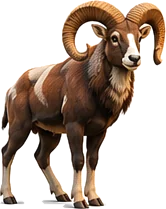
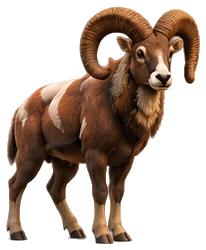
Nouvelles images des animaux (fond transparent, chevreuils détourés) ; croix rouge pour fermer un document – version 2026-10-13a
Claude-Session: https://claude.ai/code/session_0186hciEuPyU4mgRMjZZiZQe

diff --git a/index.html b/index.html
@@ -243,14 +243,14 @@ html.in-on,html.in-on body{overflow:hidden}
 .su-tip{display:flex;gap:10px;text-align:left;font:.9rem/1.4 system-ui;color:#dfe6d2;width:100%}
 .su-lt{border:0;background:none;color:#b9c3aa;text-decoration:underline;font:.85rem system-ui;padding:10px;margin-top:4px}
 .dth{width:64px;height:64px;border-radius:10px;object-fit:cover;flex:0 0 64px;background:var(--bg);border:1px solid var(--line)}.dth.em{display:flex;align-items:center;justify-content:center;font-size:1.8rem}.dth.pdf{display:flex;align-items:center;justify-content:center;font:800 .9rem system-ui;color:#fff;background:#b3261e;border:0}
-#dview{position:fixed;inset:0;z-index:1200;background:#000e;display:flex;align-items:center;justify-content:center;overflow:auto;touch-action:pinch-zoom}#dview img{max-width:100%;max-height:100%;object-fit:contain}#dview button{position:fixed;top:calc(12px + env(safe-area-inset-top));right:12px;width:44px;height:44px;border-radius:50%;border:0;background:#fff3;color:#fff;font:700 1.2rem system-ui}
+#dview{position:fixed;inset:0;z-index:1200;background:#000e;display:flex;align-items:center;justify-content:center;overflow:auto;touch-action:pinch-zoom}#dview img{max-width:100%;max-height:100%;object-fit:contain}#dview button{position:fixed;top:calc(12px + env(safe-area-inset-top));right:12px;width:48px;height:48px;border-radius:50%;border:3px solid #fff;background:#d32f2f;color:#fff;font:800 1.3rem system-ui;box-shadow:0 4px 14px #000a;z-index:2}
 </style></head><body>
 <aside id="dr"><h2>ChasseLog</h2>
 <button class="m" data-cv="year">Année</button><button class="m" data-cv="month">Mois</button><button class="m" data-cv="week">Semaine</button><button class="m" data-cv="day">Jour</button>
 <hr><button class="m" id="m-tour" style="font-weight:700;color:var(--acc)">▶ Découvre l'application</button><button class="m" id="m-ouv">Périodes d'ouverture</button><button class="m" id="m-mg">Gérer mes espèces et modes de chasse</button><button class="m" id="m-ar">Mes armes</button><button class="m" id="m-doc">Mes documents</button><button class="m" id="m-rm">Paramètres de rappels</button>
 <div style="margin-top:auto"><button id="m-fb" style="display:block;width:100%;text-align:center;border:0;border-radius:12px;background:#e8a032;color:#2a1c05;font:800 1rem system-ui;padding:14px 10px;box-shadow:0 3px 10px #0003;margin-bottom:6px">Envoyez-nous un commentaire !</button><button id="m-nl" class="m" style="text-align:center;font-weight:600;color:var(--acc);margin-bottom:4px">Être prévenu de la sortie</button><button id="m-inv" style="display:block;width:100%;text-align:center;border:2px solid var(--acc);border-radius:12px;background:none;color:var(--acc);font:700 .95rem system-ui;padding:11px 10px;margin-bottom:6px">Inviter un ami</button><hr><label>Thème</label><div class="seg" id="th"><button data-th="light">Clair</button><button data-th="dark">Sombre</button><button data-th="auto">Auto</button></div><label>Fréquence de synchronisation</label><select id="sy">
 <option value="manual">Manuelle</option><option value="15">Toutes les 15 minutes</option><option value="60">Toutes les heures</option><option value="day">Une fois par jour</option><option value="wifi">Dès que le réseau revient</option></select>
-<button class="m" id="m-sy">Synchroniser maintenant</button><button class="m" id="m-im">Importer un calendrier</button><button class="m" id="m-ex">Exporter mon calendrier</button><button class="m" id="m-bk">Sauvegarde automatique</button><p style="margin:10px 8px 0;font:.75rem system-ui;color:var(--mut)">ChasseLog bêta web · version 2026-10-12a<br>Météo : KNMI Harmonie (2 km) et ECMWF, via Open-Meteo.com</p></div></aside>
+<button class="m" id="m-sy">Synchroniser maintenant</button><button class="m" id="m-im">Importer un calendrier</button><button class="m" id="m-ex">Exporter mon calendrier</button><button class="m" id="m-bk">Sauvegarde automatique</button><p style="margin:10px 8px 0;font:.75rem system-ui;color:var(--mut)">ChasseLog bêta web · version 2026-10-13a<br>Météo : KNMI Harmonie (2 km) et ECMWF, via Open-Meteo.com</p></div></aside>
 <div id="page"><main id="app"></main></div>
 <script>
 const G={"Grand gibier":["Cerf élaphe","Chevreuil","Sanglier","Daim","Mouflon"],
@@ -1016,7 +1016,7 @@ function rArmes(){S.guns=S.guns||[];const cat=ag.type?ARMES[ag.type]:null,brandO
 /* ---------- rappels ---------- */
 const RM=()=>{if(!S.rem)S.rem={};const r=S.rem;if(r.sleep===undefined)r.sleep=false;if(!r.time)r.time="20:00";if(r.auto===undefined)r.auto=false;return r};
 const dueOf=e=>new Date(e.date+"T"+e.rem+":00").getTime();
-const APP_V="2026-10-12a",APP_URL="https://chasselog-coder.github.io/ChasseLog/";
+const APP_V="2026-10-13a",APP_URL="https://chasselog-coder.github.io/ChasseLog/";
 const REM_ON=false;
 async function syncRem(){if(!REM_ON)return;try{const RMs=RM(),now=Date.now();let old=[];try{old=JSON.parse(await DB.get("_rem")||"[]")}catch(x){}const fired=new Set(old.filter(x=>x.fired).map(x=>x.id+"|"+x.due));
  const list=RMs.sleep?[]:evs().filter(e=>e.rem&&!e.fiche&&!e.remDone&&now-dueOf(e)<36*36e5).map(e=>({id:e.id,title:e.title,date:e.date,due:dueOf(e),fired:fired.has(e.id+"|"+dueOf(e))}));await DB.put("_rem",JSON.stringify(list));

diff --git a/sw.js b/sw.js
@@ -1,6 +1,6 @@
 // Service worker : met l'application en cache pour qu'elle fonctionne sans connexion.
 // Les fonds de carte (OpenStreetMap) ne sont volontairement PAS mis en cache.
-const V = "carnet-v48";
+const V = "carnet-v49";
 const FILES = [
   "./", "index.html", "manifest.webmanifest",
   "icons/icon-192.png", "icons/icon-512.png", "icons/maskable-512.png", "icons/apple-touch-icon.png",
